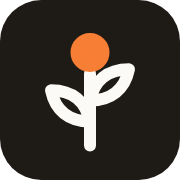
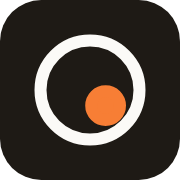
D-15: Replace the sprig with an Ondevo mark
An O ring holding the accent dot: the user's data stays inside their
device. Updates the logo, app icon, favicon, PWA icons and Open Graph
images, and brand-identity.md.

Changed region(s): [[0.1667, 0.1667, 0.8333, 0.8611]]

diff --git a/src/components/brand/Logo.tsx b/src/components/brand/Logo.tsx
@@ -2,8 +2,9 @@ import { cn } from "@/lib/cn";
 import { SITE_NAME } from "@/config/site";
 
 /**
- * Logo mark (brand-identity.md): a sprig drawn in the Lucide stroke style,
- * with the accent as the single bud. Same geometry as src/app/icon.svg.
+ * Logo mark (brand-identity.md): an "O" ring in the Lucide stroke style
+ * holding the accent dot, your data, which stays inside (D-15). Same
+ * geometry as src/app/icon.svg and the Open Graph images.
  */
 export function LogoMark({ className }: { className?: string }) {
   return (
@@ -17,10 +18,8 @@ export function LogoMark({ className }: { className?: string }) {
       aria-hidden
       className={cn("size-6 shrink-0", className)}
     >
-      <path d="M12 21V9" />
-      <path d="M12 17c-3.6 0-5.8-1.9-6.5-5.2 3.6 0 5.8 1.9 6.5 5.2Z" />
-      <path d="M12 13.5c3.6 0 5.8-1.9 6.5-5.2-3.6 0-5.8 1.9-6.5 5.2Z" />
-      <circle cx="12" cy="5.5" r="2.25" className="fill-accent stroke-accent" />
+      <circle cx="12" cy="12" r="8.25" />
+      <circle cx="14.6" cy="14.6" r="2.4" className="fill-accent stroke-accent" />
     </svg>
   );
 }

diff --git a/src/app/[tool]/opengraph-image.tsx b/src/app/[tool]/opengraph-image.tsx
@@ -52,10 +52,8 @@ export default async function Image({ params }: { params: Promise<{ tool: string
           strokeLinecap="round"
           strokeLinejoin="round"
         >
-          <path d="M12 21V9" />
-          <path d="M12 17c-3.6 0-5.8-1.9-6.5-5.2 3.6 0 5.8 1.9 6.5 5.2Z" />
-          <path d="M12 13.5c3.6 0 5.8-1.9 6.5-5.2-3.6 0-5.8 1.9-6.5 5.2Z" />
-          <circle cx="12" cy="5.5" r="2.25" fill={c.accent} stroke={c.accent} />
+          <circle cx="12" cy="12" r="8.25" />
+          <circle cx="14.6" cy="14.6" r="2.4" fill={c.accent} stroke={c.accent} />
         </svg>
         <span style={{ fontSize: 36, fontWeight: 600, letterSpacing: -0.5 }}>Ondevo</span>
         <span style={{ fontSize: 28, color: c["fg-muted"], marginLeft: 8 }}>

diff --git a/docs/02-design/brand-identity.md b/docs/02-design/brand-identity.md
@@ -28,10 +28,10 @@ Final homepage headline is written in Phase 7 ([content-voice-ux-copy.md](conten
 
 ### 4.1 Mark
 
-A **sprig**: a vertical stem with two offset leaves and a single round bud. It is drawn on the 24px Lucide grid with the same 1.5px round-cap stroke as the interface icons, so the logo belongs to the same family as every icon on the page (design-system §6).
+**The dot that stays inside** (D-15, replacing the Sprigkit sprig): an "O" ring, the first letter of Ondevo and the user's device, holding a solid dot, their data, which sits inside it and never leaves. It is drawn on the 24px Lucide grid with the same 1.5px round-cap stroke as the interface icons, so the logo belongs to the same family as every icon on the page (design-system §6). Geometry: ring `r 8.25` at the centre; dot `r 2.4` at (14.6, 14.6), off-centre towards the lower right.
 
-- The **bud is the only accent-coloured element** (`--accent`): it echoes the "one accent" rule and the "signal" in the UI.
-- Stem and leaves use `currentColor` (`--fg`), so the mark works in both themes.
+- The **dot is the only accent-coloured element** (`--accent`): it echoes the "one accent" rule and the "signal" in the UI.
+- The ring uses `currentColor` (`--fg`), so the mark works in both themes.
 - Source: `LogoMark` in `src/components/brand/Logo.tsx`.
 
 ### 4.2 Wordmark
@@ -40,7 +40,7 @@ A **sprig**: a vertical stem with two offset leaves and a single round bud. It i
 
 ### 4.3 App icon and favicon
 
-The mark in paper colour on an ink rounded square (radius 5.5 on 24, about 23%), bud in the dark-theme accent. One tile design works on light and dark browser chrome.
+The mark in paper colour on an ink rounded square (radius 5.5 on 24, about 23%), dot in the dark-theme accent. One tile design works on light and dark browser chrome.
 
 | File | Size | Generated by |
 |---|---|---|
@@ -51,14 +51,14 @@ The mark in paper colour on an ink rounded square (radius 5.5 on 24, about 23%),
 
 A maskable icon (safe-zone padding) is added with the manifest in Phase 7.
 
-Colours in the icon files are the hex equivalents of the tokens: ink `#1e1a15` (`--fg` light), paper `#fbfaf7` (`--bg` light), bud `#f77e35` (`--accent` dark).
+Colours in the icon files are the hex equivalents of the tokens: ink `#1e1a15` (`--fg` light), paper `#fbfaf7` (`--bg` light), dot `#f77e35` (`--accent` dark).
 
 ### 4.4 Usage rules
 
 - Minimum size: mark 16px; mark + wordmark 96px wide.
-- Clear space: at least the bud's diameter on every side.
-- Do not recolour the leaves, add gradients, outlines, shadows or animate the mark.
-- Do not place the mark on the accent colour (the bud disappears).
+- Clear space: at least the dot's diameter on every side.
+- Do not recolour the ring, move the dot outside it, add gradients, outlines, shadows or animate the mark.
+- Do not place the mark on the accent colour (the dot disappears).
 
 ## 5. Licensing
 

diff --git a/docs/06-delivery/risks-and-decisions.md b/docs/06-delivery/risks-and-decisions.md
@@ -196,7 +196,7 @@ D-2 to D-4 and D-7 to D-10 were made before Phase 0 and are summarized above; th
 - **Options considered:** plant-themed names (Tendril, Mossbench), descriptive names (ZeroUpload, KeepLocal), catchy names (Hushkit, Byteless: already used by websites), and coined words. Web searches on 2026-11-03 found no product named **Ondevo**, **Hushora** or **Lokavo**; most other candidates were taken or close to existing brands.
 - **Decision:** **Ondevo** ("on device"), chosen by the owner on 2026-11-03. It states the product's promise: everything runs on your device. Domain `ondevo.com`; `NEXT_PUBLIC_SITE_URL=https://ondevo.com`.
 - **Consequences:**
-  - Name, metadata, structured data, `llms.txt`, legal pages and docs renamed in one change. The sprig logo mark is name-independent and stays.
+  - Name, metadata, structured data, `llms.txt`, legal pages and docs renamed in one change. The sprig mark was replaced by a new mark for the name: an "O" ring holding the accent dot, "the dot that stays inside" ([brand-identity.md §4.1](../02-design/brand-identity.md)).
   - The Cloudflare Pages project keeps its name (`sprigkit.pages.dev` hosts in the docs are real); it can be renamed in the dashboard later.
   - The JWT decoder's sample token was re-signed with the new sample secret.
   - Owner, before buying the domain: confirm `ondevo.com` is free and search "Ondevo" in WIPO, USPTO and TMview (classes 9 and 42). Fallbacks: Hushora, Lokavo.
